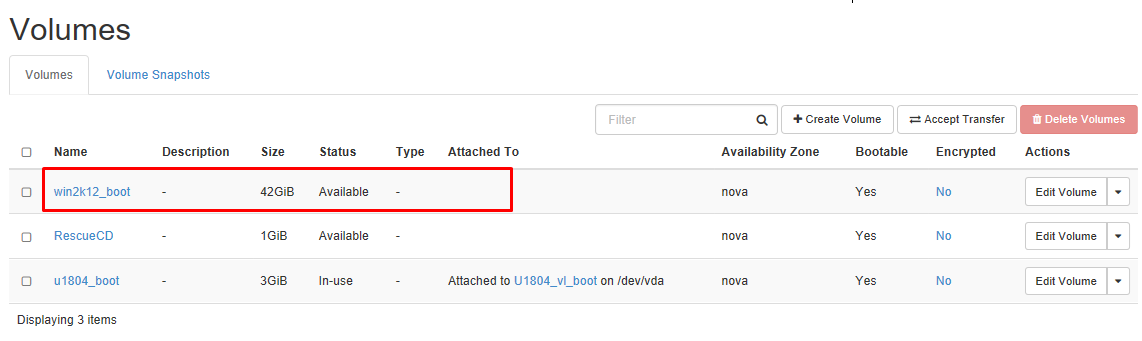
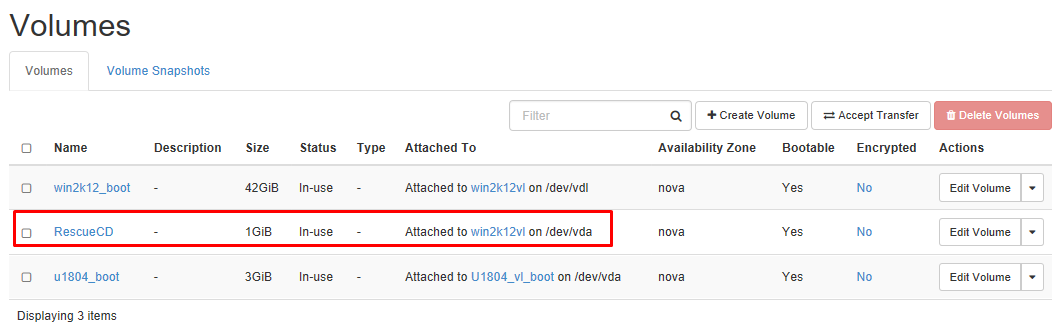
resetpass_VM_volumeboot

diff --git a/docs/Huongdan_ResetPasswordVM_VolumeBoot_Mitaka.md b/docs/Huongdan_ResetPasswordVM_VolumeBoot_Mitaka.md
@@ -10,9 +10,9 @@
 
 #### Cách thức thực hiện: 
  - Chỉnh sửa DB của OpenStack để gỡ được volume boot khỏi máy ảo.
- - Gắn volume boot vào 1 máy ảo khác có sẵn SystemRescueCD.
+ - Gắn 1 volume khác có sẵn SystemRescueCD vào máy ảo .
  - Thực hiện reset password.
- - Gắn lại volume boot vào máy ảo ban đầu, chỉnh sửa lại DB OpenStack để đưa máy ảo về trạng thái ban đầu.
+ - Gỡ volume SystemRescueCD khỏi máy ảo, chỉnh sửa lại DB OpenStack để đưa máy ảo về trạng thái ban đầu.
  - Boot máy ảo và đăng nhập bằng password mới.
 
 
@@ -40,21 +40,31 @@ Trong đó:
 Kết quả:
 ![resetpassword](/images/resetpassword/rp_12.png)
 
-### 1.5. Gỡ volume boot khỏi máy ảo
-![resetpassword](/images/resetpassword/rp_14.png)
-
-
-## 2. Tạo máy ảo SystemRescueCD
+## 2. Tạo Volume SystemRescueCD
 ### 2.1. Tạo image SystemRescueCD
 Thực hiện như hướng dẫn tại [đây](https://github.com/VNPT-SmartCloud-System/DongGoiImage_OpenStack/blob/master/docs/Huongdan_ResetPasswordVM_SystemRescueCD.md#1-systemrescuecd)
 
-### 2.2. Boot máy ảo với image SystemRescueCD vừa tạo
+### 2.2. Tạo volume với image SystemRescueCD vừa tạo
 ![resetpassword](/images/resetpassword/rp_13.png)
 
-### 2.3. Sau khi máy ảo SystemRescueCD start, tắt máy ảo và mount Volume boot vừa gỡ ở trên vào máy ảo SystemRescueCD
+### 2.3. Mount volume SystemRescueCD vào máy ảo
 ![resetpassword](/images/resetpassword/rp_15.png)
 
-### 2.4. Khởi động máy ảo SystemRescueCD
+### 2.4. Đăng nhập vào MySQL và thực hiện update bản ghi của Volume SystemRescueCD
+```sh
+MariaDB [nova]> use nova;
+MariaDB [nova]> update block_device_mapping set device_name = '/dev/vda', boot_index=1 where volume_id = '1c710e37-9eb1-49be-854b-e9c904a4fa59' and deleted = 0;       
+
+MariaDB [nova]> use cinder;
+MariaDB [cinder]> update volume_attachment set mountpoint='/dev/vda' where volume_id ='1c710e37-9eb1-49be-854b-e9c904a4fa59' and deleted=0;
+```
+Trong đó:
+ - `1c710e37-9eb1-49be-854b-e9c904a4fa59`: ID của Volume SystemRescueCD
+
+Kết quả:
+![resetpassword](/images/resetpassword/rp_14.png)
+
+### 2.5. Khởi động máy ảo
 
 
 ## 3. Thực hiện Reset password VM
@@ -65,10 +75,20 @@ Thực hiện như hướng dẫn tại [đây](https://github.com/longsube/Dong
 shutdown -h now
 ```
 
-### 3.2. Gỡ bỏ volume boot khỏi máy ảo SystemRescueCD và gắn lại vào máy ảo gốc
-![resetpassword](/images/resetpassword/rp_16.png)
+### 3.2. Đăng nhập vào MySQL và thực hiện update lại bản ghi của Volume SystemRescueCD
+```sh
+MariaDB [nova]> use nova;
+MariaDB [nova]> update block_device_mapping set device_name = '/dev/vdb', boot_index=1 where volume_id = '1c710e37-9eb1-49be-854b-e9c904a4fa59' and deleted = 0;       
 
-### 3.3. Trên host Controller, đăng nhập vào MySQL và thực hiện update lại bản ghi của Volume boot của máy ảo gốc
+MariaDB [nova]> use cinder;
+MariaDB [cinder]> update volume_attachment set mountpoint='/dev/vdb' where volume_id ='1c710e37-9eb1-49be-854b-e9c904a4fa59' and deleted=0;
+```
+Trong đó:
+ - `1c710e37-9eb1-49be-854b-e9c904a4fa59`: ID của Volume SystemRescueCD
+
+### 3.3. Gỡ bỏ volume SystemRescueCD khỏi máy ảo
+
+### 3.4. Trên host Controller, đăng nhập vào MySQL và thực hiện update lại bản ghi của Volume boot
 ```sh
 MariaDB [nova]> use nova;
 MariaDB [nova]> update block_device_mapping set device_name = '/dev/vda', boot_index=1 where volume_id = 'fe14c432-493e-42ca-970e-4b542fcf3cbf' and deleted = 0;       
@@ -88,4 +108,3 @@ Kết quả:
 
 # Tham khảo:
 - https://bugs.launchpad.net/nova/+bug/1396965
-

diff --git a/docs/Huongdan_ResetPasswordVM_SystemRescueCD.md b/docs/Huongdan_ResetPasswordVM_SystemRescueCD.md
@@ -27,6 +27,10 @@ isohybrid systemrescuecd-amd64-6.1.3.iso
 ```sh
 openstack image create --file systemrescuecd-amd64-6.1.3.iso --public systemrescuecd-amd64
 ```
+### 1.5. Đặt các metadata cho image
+```sh
+openstack image set --property hw_cdrom_bus=ide --property hw_disk_bus=ide systemrescuecd-amd64
+```
 
 ## 2. Cấu hình trên OpenStack
 Để thực hiện việc reset password máy ảo, ta sẽ sử dụng 1 tính năng của nova là Rescue VM. Tính năng này sẽ đặt máy ảo vào trạng thái Rescue, trong đó VM sẽ boot vào 1 image được chỉ định. Chi tiết về tính năng này có thể đọc tại [đây](https://docs.openstack.org/ocata/user-guide/cli-reboot-an-instance.html)
@@ -78,6 +82,8 @@ Ta thấy ổ đĩa `/dev/vdb2` là ổ đĩa chứa OS máy ảo
 mkdir /mnt/windows
 ntfs-3g /dev/vdb2 /mnt/windows
 ```
+
+Lưu ý: nếu xuất hiện lỗi `The NTFS partition is in an unsafe state. Please resume and shutdown Windows fully (no hibernation or fast restarting), or mount the volume read-only with the 'ro' mount option.`. có nghĩa là máy ảo đã không được shutdown tốt đẹp, lúc này cần khởi động lại máy ảo và shutdown lại để đảm bảo máy ảo shutdown thành công.
 
 ### 3.3.3. Chuyển tới thư mục chứa SAM database của Windows. Lưu ý: với Windows Server 2k12, SAM database được đặt tại `/Windows/System32/config`, các OS Windows khác cần kiểm tra lại đường dẫn trươc khi thao tác
 ```sh
